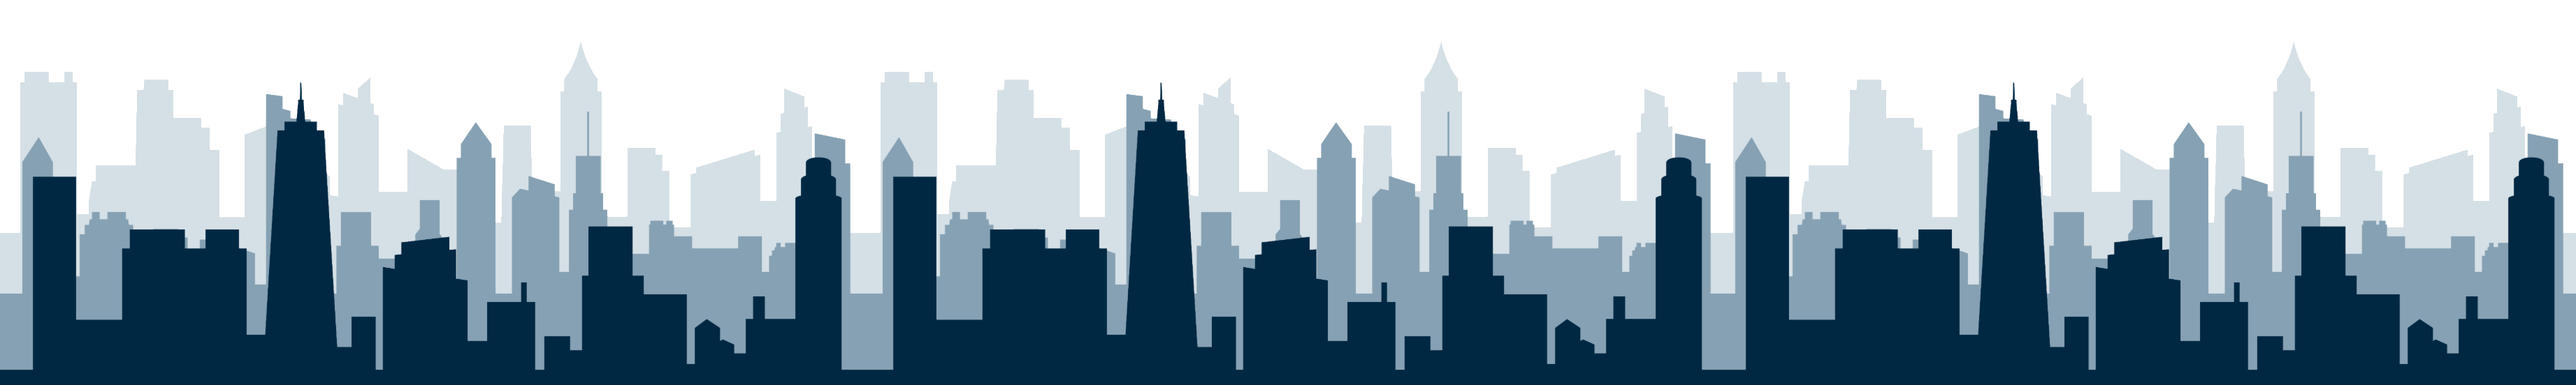
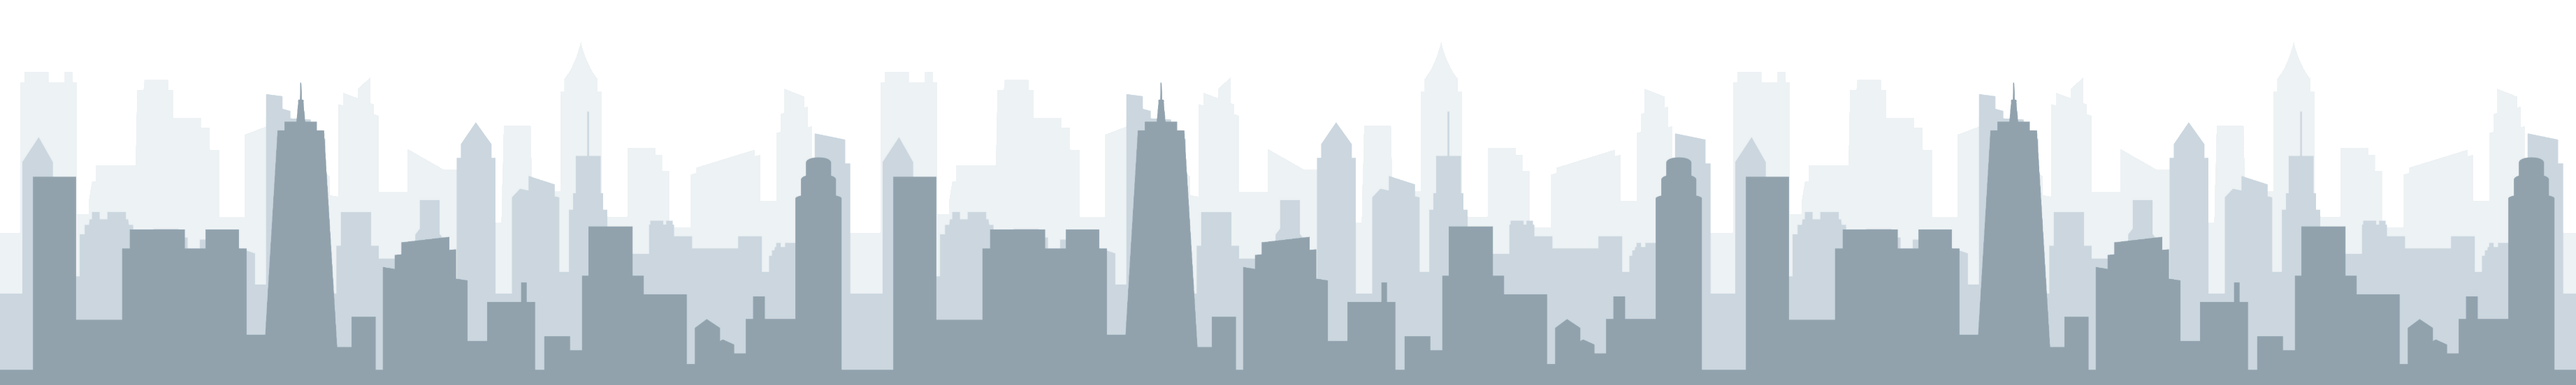
New container type

diff --git a/tutorials/static/css/style_.css b/tutorials/static/css/style_.css
@@ -4,7 +4,7 @@ html,body {
     margin: 0;
     background-color: #f5f7fa;
     background:
-              url('/static/images/Footer.png') bottom center no-repeat,
+              url('/static/images/Footer3.png') bottom center no-repeat,
               linear-gradient(to bottom, #ffffff 0%, #ffffff 50%, #dbeaf3 80%, #99c8e0 100%);
   background-size: contain,  100% 100% ;
 
@@ -136,6 +136,20 @@ form button:hover {
     margin: 20px auto;              /* Abstand nach außen (oben/unten) und zentrieren */
     max-width: 600px;               /* Optionale maximale Breite */
 }
+
+.section-container {
+    background-color: #d6d4d4  ;          /* graueer Hintergrund */
+    border: 1px solid #ddd;         /* Dezenter Rahmen */
+    border-radius: 6px;             /* Leicht abgerundete Ecken */
+    box-shadow: 0 15px 20px rgba(0,0,0,0.1); /* Sanfter Schatten */
+    padding: 20px;                  /* Innenabstand */
+    margin: 20px auto;              /* Abstand nach außen (oben/unten) und zentrieren */
+    max-width: 600px;               /* Optionale maximale Breite */
+}
+
+
+
+
 /* Seiten-Transition Effekt */
 body.fade-transition {
     transition: background-color 3s ease, opacity 3s ease;

diff --git a/tutorials/templates/tutorials/edit_sections.html b/tutorials/templates/tutorials/edit_sections.html
@@ -2,7 +2,10 @@
 {% block title %}Tutorial-Schritte bearbeiten{% endblock %}
 
 {% block content %}
+<div class="section-container">
+  <div class="card-container">
   <h2 style="text-align: center;">Schritte für: {{ tutorial.title }}</h2>
+  </div>
 
   <form method="post" enctype="multipart/form-data" style="max-width: 800px; margin: auto;" id="tutorial-form">
     {% csrf_token %}
@@ -92,6 +95,7 @@
         </button>
       </div>
     </div>
+</div>
   </template>
 
   <style>
